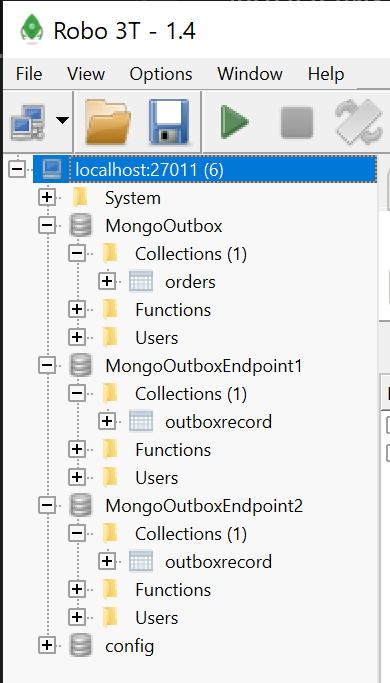
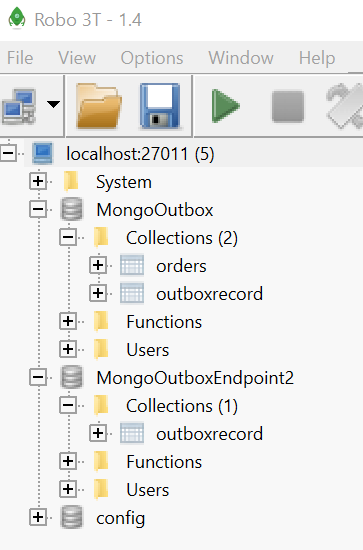
Endpoint1 now configured the peristence database (for Outbox) to be MongoDatabase, which is the same database that CreateOrderHandler writes to. This way, the outbox and business data is co-located in the same database, which is the quickest/most efficient option for using outbox with NServiceBus.
- update readme to account for Endpiont 1 outbox/businss data sharing the MongoOutbox db.

diff --git a/src/MongoOutbox.Client/Program.cs b/src/MongoOutbox.Client/Program.cs
@@ -12,17 +12,18 @@ namespace MongoOutbox.Client
             Console.Title = "MongoDb.Client";
 
             var endpointConfiguration = new EndpointConfiguration("MongoDb.Client");
+            endpointConfiguration.EnableInstallers();
 
             var transport = endpointConfiguration.UseTransport<RabbitMQTransport>();
             transport.UseConventionalRoutingTopology();
             transport.ConnectionString("host=localhost;username=rabbitmq;password=rabbitmq");
             transport.Routing().RouteToEndpoint(typeof(CreateOrder), "MongoOutbox.Endpoint1");
 
-            endpointConfiguration.EnableInstallers();
             endpointConfiguration.SendFailedMessagesTo("MongoOutbox.Error");
             endpointConfiguration.AuditProcessedMessagesTo("MongoOutbox.Audit");
-            endpointConfiguration.EnableInstallers();
+            
             endpointConfiguration.UseSerialization<NewtonsoftSerializer>();
+            
             endpointConfiguration.SendOnly();
 
             var endpointInstance = await Endpoint.Start(endpointConfiguration).ConfigureAwait(false);

diff --git a/src/MongoOutbox.Endpoint1/Program.cs b/src/MongoOutbox.Endpoint1/Program.cs
@@ -41,7 +41,7 @@ namespace MongoOutbox.Endpoint1
 
                 var persistence = endpointConfiguration.UsePersistence<MongoPersistence>();
                 persistence.MongoClient(new MongoClient("mongodb://localhost:27011"));
-                persistence.DatabaseName("MongoOutboxEndpoint1");
+                persistence.DatabaseName("MongoOutbox");
 
                 endpointConfiguration.SendFailedMessagesTo("MongoOutbox.Error");
                 endpointConfiguration.AuditProcessedMessagesTo("MongoOutbox.Audit");

diff --git a/README.md b/README.md
@@ -40,15 +40,18 @@ To run the solution, check that the MongoOutbox solution has three projects set 
 - MongoOutbox.Endpoint1
 - MongoOutbox.Endpoint2
 
-Next, hit F5. All three endpoints should stand up. .Client will send a new command, CreateOrder, every 5 seconds. Endpoint1 will handle CreateOrder, insert an Order into Mongo, then publics an event, OrderCreated. Endpoint2 will handle the OrderCreated event and simply write to consle that the event was handled.
+Next, hit F5. All three endpoints should stand up. 
+
+- After a 10 second delay (to alllow Endpoint1 and Endpoint2 to start up and provision the rabbit topology), the .Client project will send a CreateOrder command every 5 seconds. 
+- Endpoint1 will handle CreateOrder, insert an Order into Mongo, then publish the OrderCreated event. 
+- Endpoint2 will handle OrderCreatedand and write to consle that the event was handled (there are no db ops in this endpoint).
 
 This is what the MongoDb databases and collection in each database should look like:
 
 ![MongoDatabases](MongoDatabases.png)
 
-- MongoOutbox: this is the "business" database. Aka, where Orders are written. It has nothing to do with NSB Outbox
-- MongoOutboxEndpoint1: this is MongoOutbox.Endpoint1's outbox storage
-- MongoOutboxEndpoint2: this is MongoOutbox.Endpoint2's outbox storage
+- MongoOutbox: this database holds a combination of outbox data (outboxrecord) for othe endpoint and business data, aka, where Orders are written. Co-locating your outbox and business data in the same database is a NServiceBus best practice when using Outbx.
+- MongoOutboxEndpoint2: this is MongoOutbox.Endpoint2's outbox storage. There is nothing else being stored here because this endpoint does not write any business data to a database.
 
 By convention, NServiceBus will create a mongo database per endpoint named after the endpoint name. The name, as well as connection string and port are overridable in endpoint config.
 
